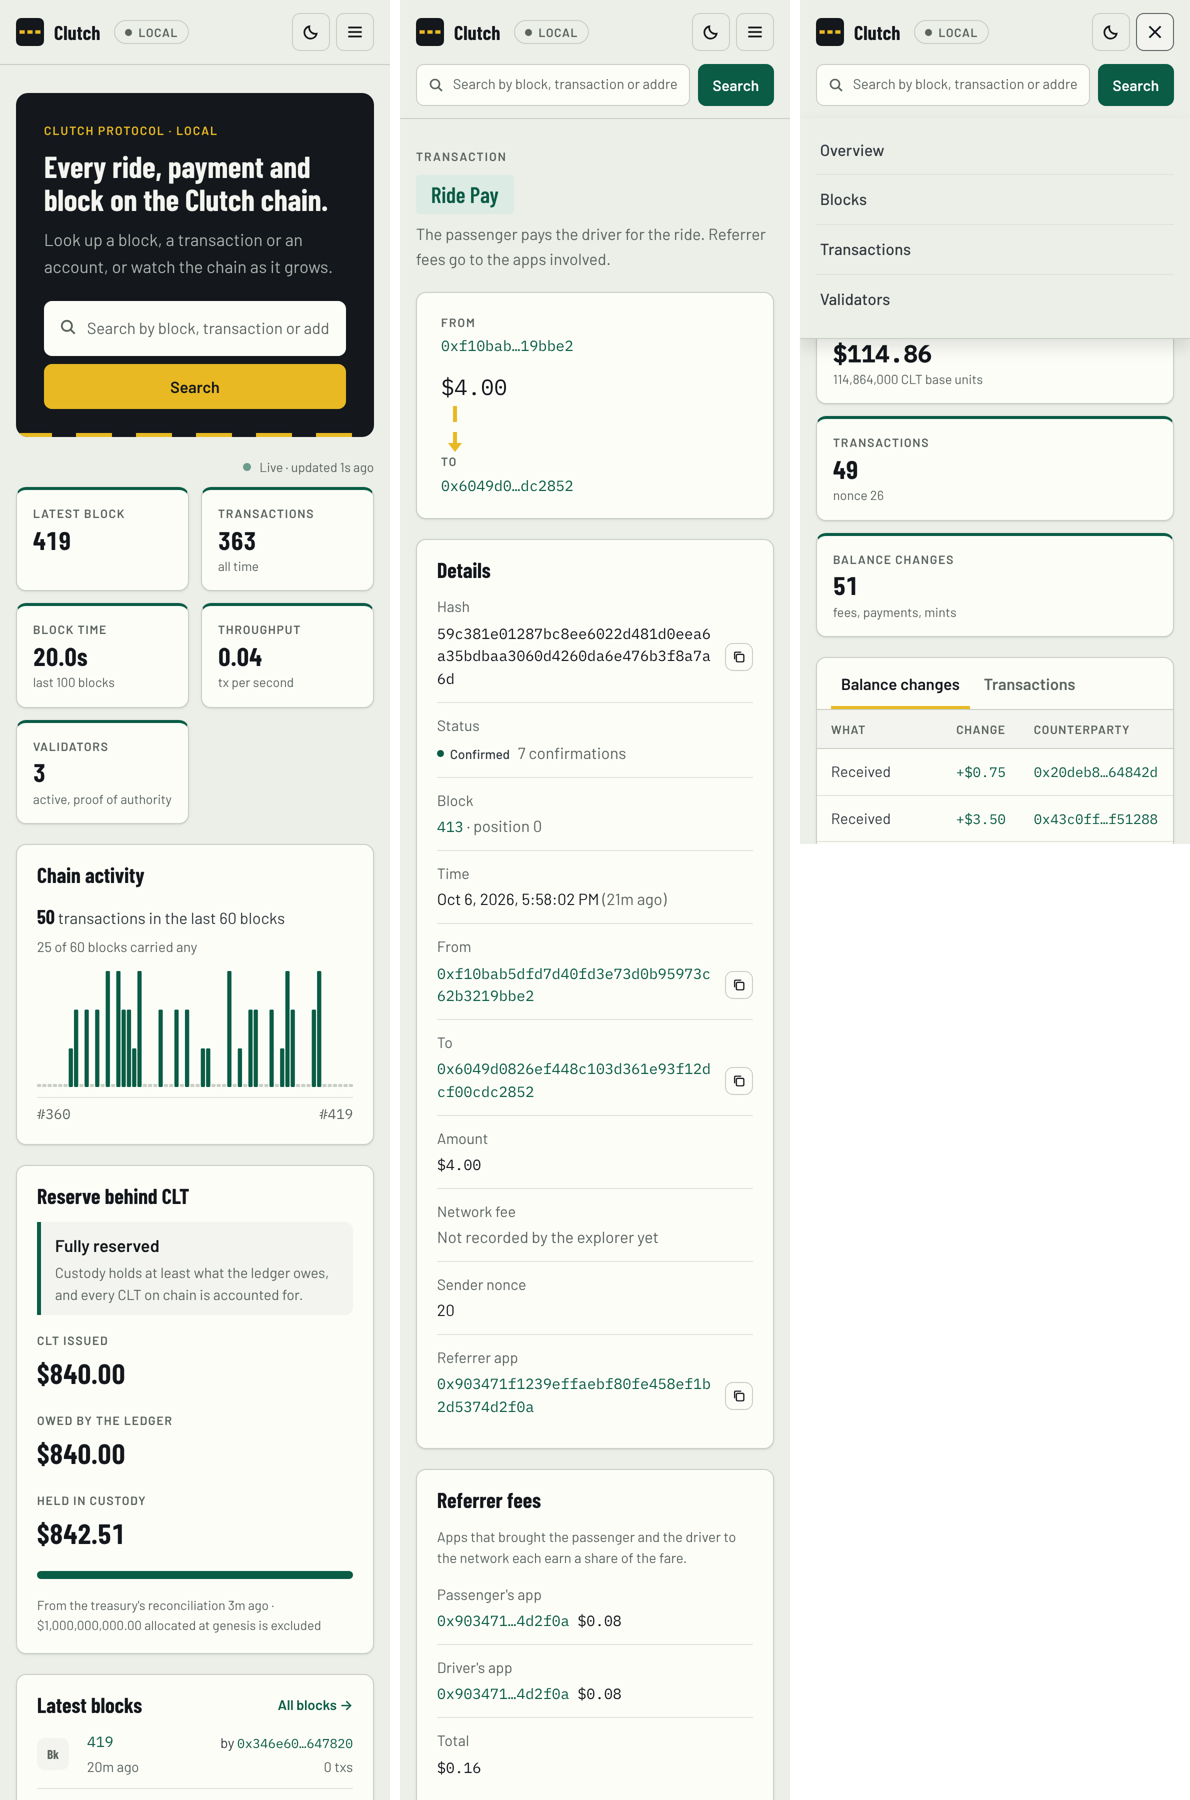
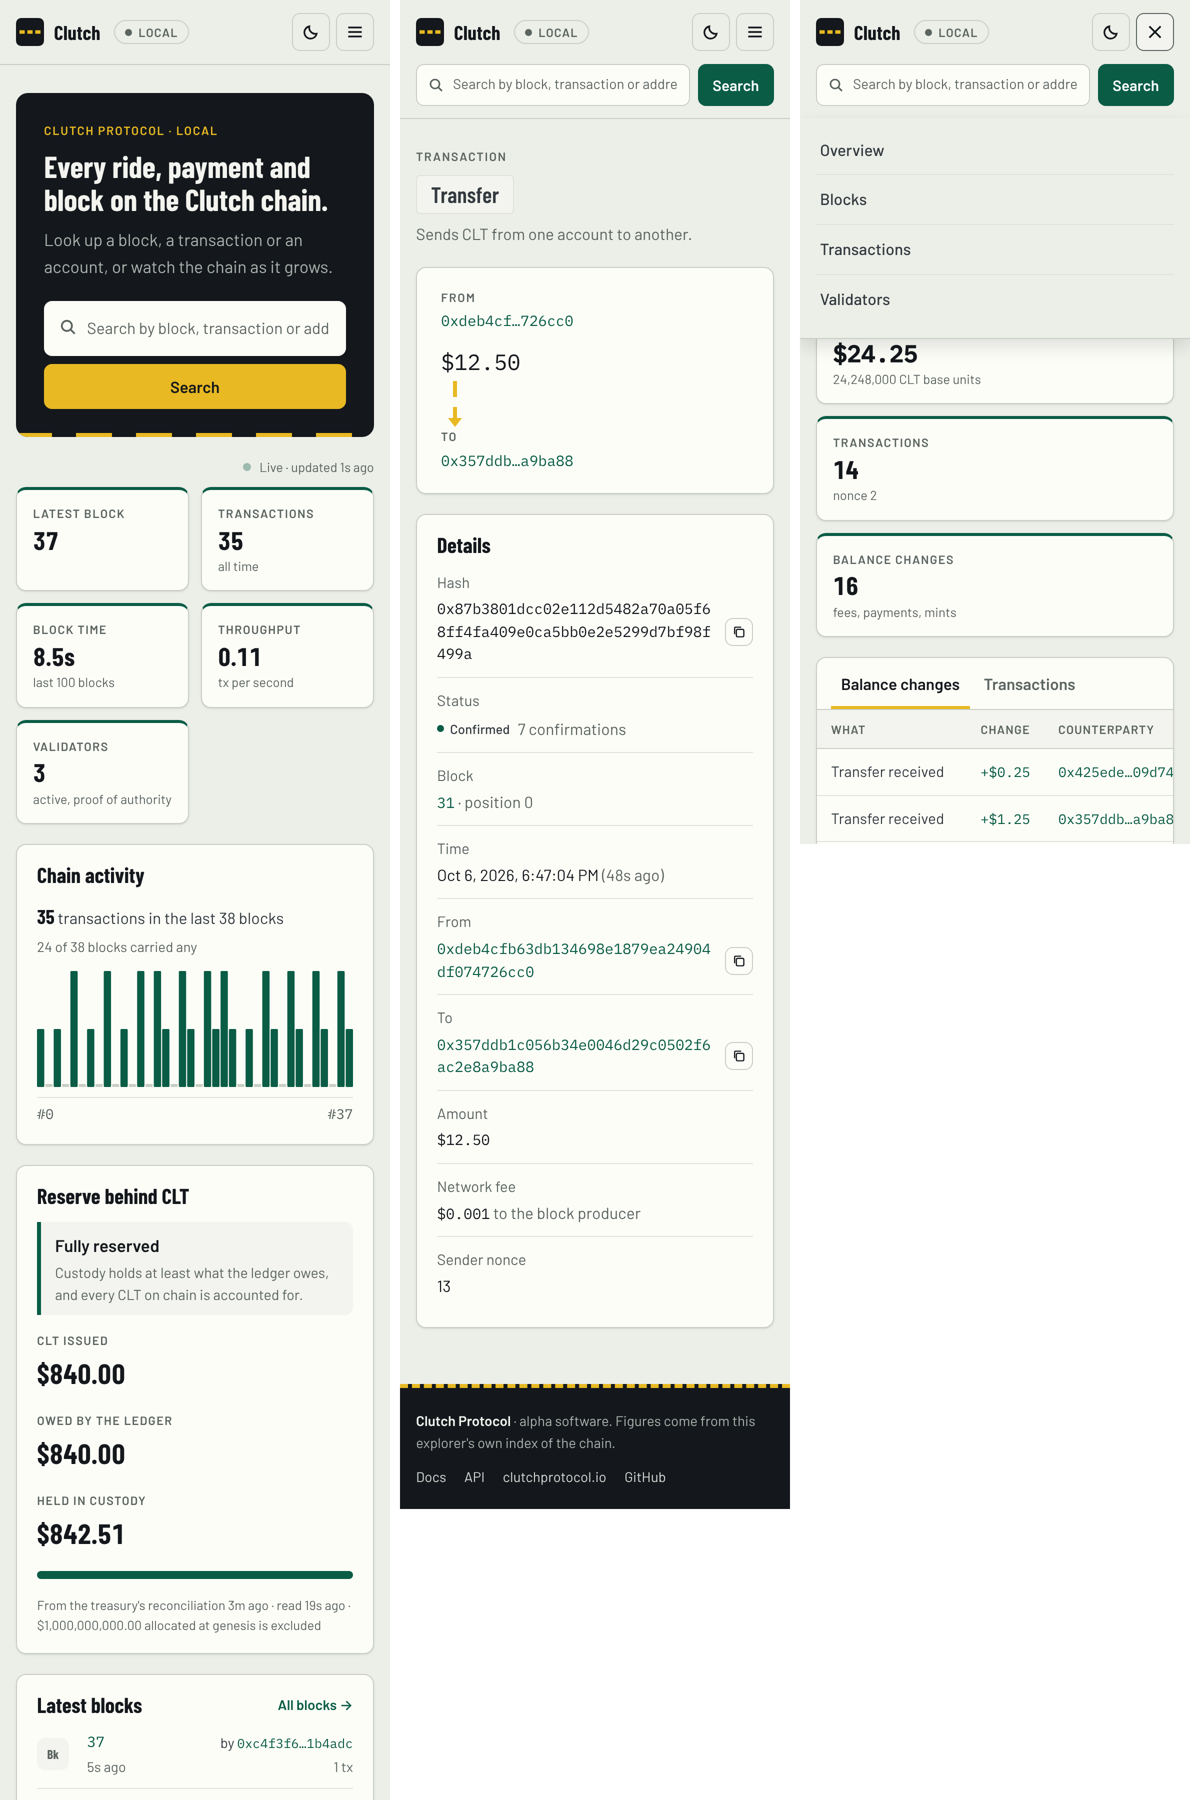
feat(explorer): record real fees, label every balance-change kind, "/" focuses search
The node's transaction payload has no fee field, but every fee it charges is
recorded as a tx_fee_paid balance effect, and the block author's credit as
tx_fee_earned. The indexer now reads both, so transactions and blocks carry their
real fees instead of a hardcoded 0. Rows already indexed keep 0 until they are
re-indexed; the UI says "not recorded" for those. Screenshots now come from a
local three-validator clutch-node chain indexed by this indexer.

Claude-Session: https://claude.ai/code/session_01JkBLW5gBovWC6vpURaQ21o

diff --git a/frontend/src/components/SearchBox.tsx b/frontend/src/components/SearchBox.tsx
@@ -1,4 +1,4 @@
-import { FormEvent, useState } from "react";
+import { FormEvent, useEffect, useRef, useState } from "react";
 import { useNavigate } from "react-router-dom";
 import { explorerApi } from "../api/client";
 import type { SearchResult } from "../api/types";
@@ -19,8 +19,30 @@ export function resultPath(result: SearchResult) {
  * Asks the API what the query is rather than guessing from its shape: a 64-hex value can be a
  * transaction or a block hash. One match goes straight there; anything else opens the results page.
  */
-export function SearchBox({ size = "compact" }: { size?: "compact" | "large" }) {
+export function SearchBox({
+  size = "compact",
+  hotkey = false,
+}: {
+  size?: "compact" | "large";
+  /** Focus this box when "/" is pressed outside a text field. One box per page should take it. */
+  hotkey?: boolean;
+}) {
   const [query, setQuery] = useState("");
+  const input = useRef<HTMLInputElement>(null);
+
+  useEffect(() => {
+    if (!hotkey) return;
+    const onKey = (event: KeyboardEvent) => {
+      const target = event.target as HTMLElement | null;
+      const typing = target?.closest("input, textarea, select, [contenteditable='true']");
+      if (event.key === "/" && !typing && !event.metaKey && !event.ctrlKey && !event.altKey) {
+        event.preventDefault();
+        input.current?.focus();
+      }
+    };
+    window.addEventListener("keydown", onKey);
+    return () => window.removeEventListener("keydown", onKey);
+  }, [hotkey]);
   const [busy, setBusy] = useState(false);
   const navigate = useNavigate();
 
@@ -51,13 +73,20 @@ export function SearchBox({ size = "compact" }: { size?: "compact" | "large" }) 
         <path d="M10.5 10.5L14 14" stroke="currentColor" strokeWidth="1.6" />
       </svg>
       <input
+        ref={input}
         aria-label="Search"
+        aria-keyshortcuts={hotkey ? "/" : undefined}
         placeholder="Search by block, transaction or address"
         value={query}
         onChange={(event) => setQuery(event.target.value)}
         spellCheck={false}
         autoComplete="off"
       />
+      {hotkey ? (
+        <kbd className="search-kbd" aria-hidden="true">
+          /
+        </kbd>
+      ) : null}
       <button type="submit" disabled={busy}>
         {busy ? "Searching…" : "Search"}
       </button>

diff --git a/frontend/src/pages/AddressPage.tsx b/frontend/src/pages/AddressPage.tsx
@@ -26,7 +26,7 @@ import { formatHexAddress, formatNumber } from "../utils/format";
 
 const PAGE_SIZE = 20;
 
-function ActivityTable({ rows }: { rows: AccountActivity[] }) {
+function ActivityTable({ rows, self }: { rows: AccountActivity[]; self: string }) {
   if (rows.length === 0) return <EmptyState>No balance changes indexed for this address yet.</EmptyState>;
   return (
     <Table>
@@ -47,7 +47,14 @@ function ActivityTable({ rows }: { rows: AccountActivity[] }) {
             <td className="num">
               <Amount value={row.amount} sign={row.direction} />
             </td>
-            <td>{row.counterparty ? <AddressLink address={row.counterparty} /> : <span className="muted">—</span>}</td>
+            <td>
+              {/* The node names the payer as the counterparty of its own fee; that says nothing. */}
+              {row.counterparty && formatHexAddress(row.counterparty) !== self ? (
+                <AddressLink address={row.counterparty} />
+              ) : (
+                <span className="muted">—</span>
+              )}
+            </td>
             <td>{row.tx_hash ? <TxLink hash={row.tx_hash} /> : <span className="muted">—</span>}</td>
             <td>
               <BlockLink height={row.block_height} />
@@ -121,7 +128,7 @@ export function AddressPage() {
         {!list.data ? (
           list.error ? null : <Skeleton rows={10} />
         ) : list.data.kind === "activity" ? (
-          <ActivityTable rows={list.data.items} />
+          <ActivityTable rows={list.data.items} self={address} />
         ) : (
           <TransactionsTable transactions={list.data.items} perspective={address} empty="No transactions for this address yet." />
         )}

diff --git a/frontend/src/styles.css b/frontend/src/styles.css
@@ -1609,3 +1609,38 @@ a.type-badge:hover {
   text-decoration: none;
   filter: brightness(0.95);
 }
+
+.search-kbd {
+  position: absolute;
+  top: 50%;
+  transform: translateY(-50%);
+  right: calc(var(--search-button-width, 96px) + 18px);
+  padding: 0 6px;
+  border: 1px solid var(--line);
+  border-radius: 4px;
+  font-family: var(--font-mono);
+  font-size: 0.75rem;
+  color: var(--muted);
+  background: var(--surface-2);
+  pointer-events: none;
+}
+
+.search input:focus ~ .search-kbd {
+  display: none;
+}
+
+.search--large .search-kbd {
+  --search-button-width: 110px;
+}
+
+.hero .search-kbd {
+  background: #eceee8;
+  border-color: #c9cec5;
+  color: #5b6460;
+}
+
+@media (max-width: 640px) {
+  .search-kbd {
+    display: none;
+  }
+}

diff --git a/frontend/src/pages/HomePage.tsx b/frontend/src/pages/HomePage.tsx
@@ -67,7 +67,7 @@ export function HomePage() {
           <h1>Every ride, payment and block on the Clutch chain.</h1>
           <p>Look up a block, a transaction or an account, or watch the chain as it grows.</p>
         </div>
-        <SearchBox size="large" />
+        <SearchBox size="large" hotkey />
       </section>
 
       <div className="section-head">

diff --git a/frontend/src/components/Layout.tsx b/frontend/src/components/Layout.tsx
@@ -109,7 +109,7 @@ export function Layout() {
         </div>
         {isHome ? null : (
           <div className="topbar-search">
-            <SearchBox />
+            <SearchBox hotkey />
           </div>
         )}
       </header>

diff --git a/backend/src/explorer/activity.rs b/backend/src/explorer/activity.rs
@@ -24,9 +24,35 @@ pub fn effect_label(kind: &str) -> &'static str {
         "referrer_request_fee" => "Referrer reward (request app)",
         "referrer_offer_fee" => "Referrer reward (offer app)",
         "ride_cancel_refund" => "Ride cancel refund",
+        "ride_auto_release" => "Ride auto-release",
         "block_reward" => "Block reward",
+        "mint" => "Mint",
+        "burn" => "Burn",
+        "tx_fee_paid" => "Network fee",
+        "tx_fee_earned" => "Block fees earned",
         _ => "Balance change",
     }
+}
+
+/// The fee a transaction paid, read from its `tx_fee_paid` effects. The node's transaction payload
+/// carries no fee field, so this is the only place it can be learned. Zero when the node merged
+/// the fee into another write (a ride acceptance folds it into the escrow debit) or when the sender
+/// produced the block (no self-fee).
+pub fn fee_paid(effects: &[ParsedBalanceEffect]) -> u64 {
+    effects
+        .iter()
+        .filter(|e| e.kind == "tx_fee_paid" && e.delta < 0)
+        .map(|e| e.delta.unsigned_abs())
+        .sum()
+}
+
+/// What the block author earned in fees, from the block's `tx_fee_earned` effect.
+pub fn fees_earned(block_effects: &[ParsedBalanceEffect]) -> u64 {
+    block_effects
+        .iter()
+        .filter(|e| e.kind == "tx_fee_earned" && e.delta > 0)
+        .map(|e| e.delta as u64)
+        .sum()
 }
 
 pub fn parse_balance_effects_from_tx(
@@ -287,4 +313,37 @@ mod tests {
         assert_eq!(activity_direction(-3), "out");
         assert_eq!(activity_amount(-3), 3);
     }
+
+    fn effect(kind: &str, delta: i64) -> ParsedBalanceEffect {
+        ParsedBalanceEffect {
+            address: "0x01".to_string(),
+            kind: kind.to_string(),
+            delta,
+            counterparty: None,
+            tx_hash: None,
+            block_height: 1,
+            tx_index: None,
+            function_call_type: None,
+            timestamp: Utc::now(),
+        }
+    }
+
+    #[test]
+    fn fee_paid_sums_only_fee_debits() {
+        let effects = vec![
+            effect("transfer_out", -5_000_000),
+            effect("tx_fee_paid", -1_000),
+            effect("transfer_in", 5_000_000),
+        ];
+        assert_eq!(fee_paid(&effects), 1_000);
+        assert_eq!(fee_paid(&[effect("transfer_out", -10)]), 0);
+    }
+
+    #[test]
+    fn fees_earned_reads_the_block_credit() {
+        let effects = vec![effect("tx_fee_earned", 3_000), effect("block_reward", 7)];
+        assert_eq!(fees_earned(&effects), 3_000);
+        assert_eq!(fees_earned(&[]), 0);
+    }
+
 }

diff --git a/backend/src/explorer/indexer.rs b/backend/src/explorer/indexer.rs
@@ -1,4 +1,4 @@
-use crate::explorer::activity::insert_account_activity;
+use crate::explorer::activity::{fees_earned, insert_account_activity};
 use crate::explorer::error::ExplorerError;
 use crate::explorer::ingestion::{NodeIngestionSource, RawHead};
 use crate::explorer::referrer::{enrich_transactions, normalize_hex_address};
@@ -344,6 +344,10 @@ impl IndexerService {
         let reward_recipient = block.reward_recipient.clone();
         let block_reward = block.block_reward as i64;
 
+        // Fetched before the block row is written so the row carries the fees its author earned.
+        let block_data = self.source.fetch_transactions_by_block(height).await?;
+        let total_fees = fees_earned(&block_data.block_balance_effects) as i64;
+
         sqlx::query(
             r#"
             INSERT INTO blocks (height, hash, parent_hash, tx_count, producer, reward_recipient, block_reward, timestamp, total_fees)
@@ -367,14 +371,13 @@ impl IndexerService {
         .bind(reward_recipient)
         .bind(block_reward)
         .bind(block.timestamp)
-        .bind(0i64)
+        .bind(total_fees)
         .execute(&self.pool)
         .await
         .map_err(|e| ExplorerError::Storage(e.to_string()))?;
 
         self.sync_validator_for_producer(&producer).await?;
 
-        let block_data = self.source.fetch_transactions_by_block(height).await?;
         let mut txs = block_data.transactions;
         enrich_transactions(
             &self.pool,

diff --git a/backend/src/explorer/postgres_repository.rs b/backend/src/explorer/postgres_repository.rs
@@ -589,9 +589,9 @@ impl ExplorerRepository for PostgresRepository {
                 return Ok(items);
             }
 
-            // The indexer stores hashes exactly as the node reports them, which is without a `0x`
-            // prefix, while addresses are stored canonical (`0x` + lowercase). Accept either
-            // spelling from the reader and match both forms.
+            // The indexer stores hashes exactly as the node reports them: transaction hashes with a
+            // `0x` prefix, block hashes without. Addresses are stored canonical (`0x` + lowercase).
+            // Accept either spelling from the reader and match both forms.
             let body = q
                 .strip_prefix("0x")
                 .or_else(|| q.strip_prefix("0X"))

diff --git a/backend/src/explorer/ingestion.rs b/backend/src/explorer/ingestion.rs
@@ -1,4 +1,6 @@
-use crate::explorer::activity::{parse_balance_effects_from_tx, parse_block_balance_effects, ParsedBalanceEffect};
+use crate::explorer::activity::{
+    fee_paid, parse_balance_effects_from_tx, parse_block_balance_effects, ParsedBalanceEffect,
+};
 use crate::explorer::error::ExplorerError;
 use chrono::{DateTime, TimeZone, Utc};
 use futures_util::{SinkExt, StreamExt};
@@ -326,7 +328,7 @@ impl NodeIngestionSource for NodeHttpIngestionSource {
                     from,
                     to,
                     amount,
-                    fee: 0,
+                    fee: fee_paid(&balance_effects),
                     status: "confirmed".to_string(),
                     function_call_type,
                     is_ride_related,

diff --git a/CLAUDE.md b/CLAUDE.md
@@ -70,7 +70,7 @@ New endpoint = handler in `handlers.rs` + route in `app.rs` + method on `Explore
 - API client: `src/api/client.ts` (`explorerApi`; throws `ApiError` with the HTTP status, so pages tell 404 from an outage), types in `src/api/types.ts`, formatting helpers in `src/utils/format.ts`, single stylesheet `src/styles.css`.
 - Shared pieces: `components/ui.tsx` (panels, links, copy buttons, badges, pagination), `components/tables.tsx` (block and transaction tables), `components/SearchBox.tsx`. Data loading goes through `hooks/useApi.ts` (optional polling; a failed poll keeps what is on screen); list pages keep their page in `?page=` via `hooks/usePage.ts`.
 - **Amounts are micro-dollars**: render them with `<Amount>` / `formatCltPrecise` (1 USD = 1,000,000 CLT), never the raw integer. The flat fee is 1,000 units, so cents alone would show $0.00.
-- **Search asks the API** (`/api/v1/search`) instead of guessing from the input's shape: a 64-hex value can be a transaction or a block hash, and the indexer stores node hashes without `0x`.
+- **Search asks the API** (`/api/v1/search`) instead of guessing from the input's shape: a 64-hex value can be a transaction or a block hash, and the node writes transaction hashes with `0x` but block hashes without, so the API matches both spellings.
 - Look: the same "road" palette as clutchprotocol.io and the docs (concrete / asphalt, sign green `#0a5c45`, lane yellow `#e8b923`, Barlow + IBM Plex Mono). Tokens live at the top of `styles.css`; dark mode follows the system and the header toggle stores an override in `localStorage`.
 - Env vars: `VITE_EXPLORER_API_URL` (base URL; `/api` is auto-appended; fallback `http://localhost:8088` on localhost, else relative `/api`) and optional `VITE_NETWORK_LABEL` for the header chip (otherwise read from the hostname: `*-stage.*` → Testnet, `*.clutchprotocol.io` → Mainnet pilot, else Local).
 
